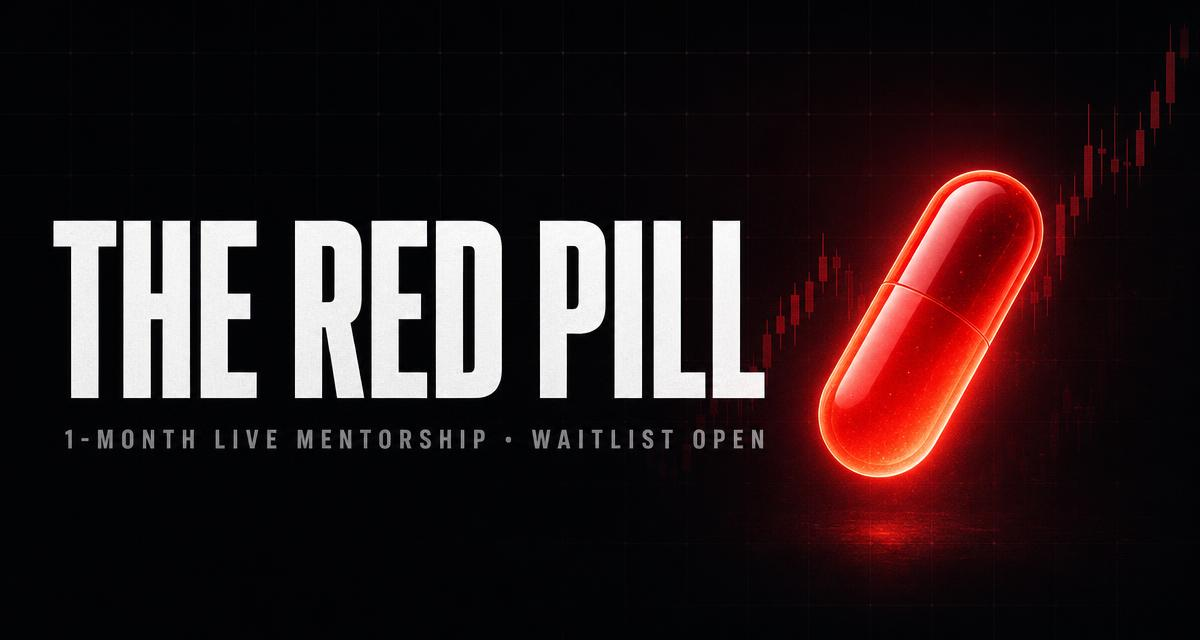
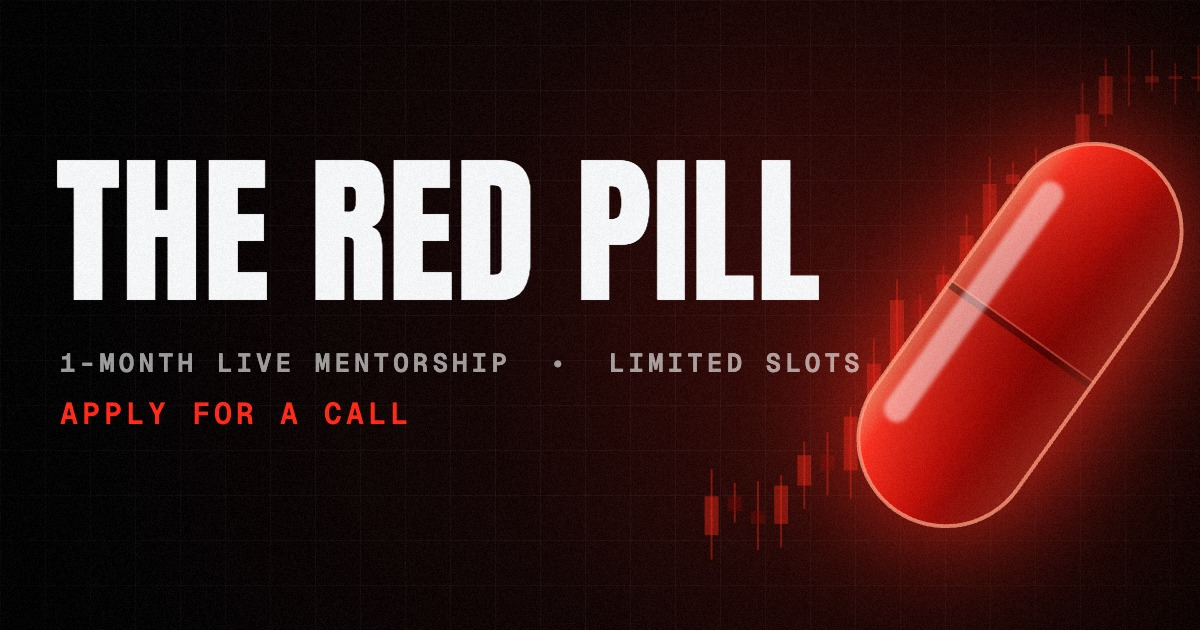
Refresh embed images and feature d1v4's review
Replace the Red Pill embed image (it still said "waitlist open"),
add a dedicated embed image for the 1-1 /apply page (it was reusing
the Blue Pill one), and add d1v4's review to the Red Pill reviews row.

diff --git a/src/components/redpill/config.ts b/src/components/redpill/config.ts
@@ -81,7 +81,7 @@ export const HERO_FRAGMENTS: Record<RpConfig["heroVariant"], string[]> = {
 
 /** Student messages, wording exactly as written in the members Discord. "..." marks a visible trim. */
 export type Quote = {
-  id: "tobi" | "cython" | "jeevan" | "sanu" | "veera";
+  id: "tobi" | "cython" | "jeevan" | "sanu" | "veera" | "d1v4";
   handle: string;
   cohort?: string;
   text: string;
@@ -118,6 +118,12 @@ export const QUOTES: Record<Quote["id"], Quote> = {
     handle: "Sanu",
     lang: "ta-Latn",
     text: "Bro honest ah sollanum na enaku vanthu neenga sonna strategy concepts la nallave purinchu intha strategy ku thevaiyaana ellame sollitinga athu mattum illama simple ah puriyuramaari eruchu ...",
+  },
+  d1v4: {
+    id: "d1v4",
+    handle: "d1v4",
+    text: "The way he teaches and clarified my doubts was excellent. That was the first time i came to know about the strategy (IFVG)",
+    emphasis: ["The way he teaches and clarified my doubts was excellent."],
   },
   veera: {
     id: "veera",

diff --git a/src/routes/apply.tsx b/src/routes/apply.tsx
@@ -37,11 +37,11 @@ export const Route = createFileRoute("/apply")({
       { property: "og:description", content: DESC },
       { property: "og:type", content: "website" },
       { property: "og:url", content: "https://blueprint.ifvg.in/apply" },
-      { property: "og:image", content: "https://blueprint.ifvg.in/og-blueprint.jpg" },
+      { property: "og:image", content: "https://blueprint.ifvg.in/og-apply.jpg" },
       { name: "twitter:card", content: "summary_large_image" },
       { name: "twitter:title", content: TITLE },
       { name: "twitter:description", content: DESC },
-      { name: "twitter:image", content: "https://blueprint.ifvg.in/og-blueprint.jpg" },
+      { name: "twitter:image", content: "https://blueprint.ifvg.in/og-apply.jpg" },
     ],
     links: [{ rel: "canonical", href: "https://blueprint.ifvg.in/apply" }],
   }),

diff --git a/src/components/redpill/proof.tsx b/src/components/redpill/proof.tsx
@@ -377,6 +377,7 @@ export function Modules() {
             aria-label="Student messages"
             tabIndex={0}
           >
+            <QuoteCard id="d1v4" />
             <QuoteCard id="cython" />
             <QuoteCard id="sanu" />
             <QuoteCard id="veera" />
